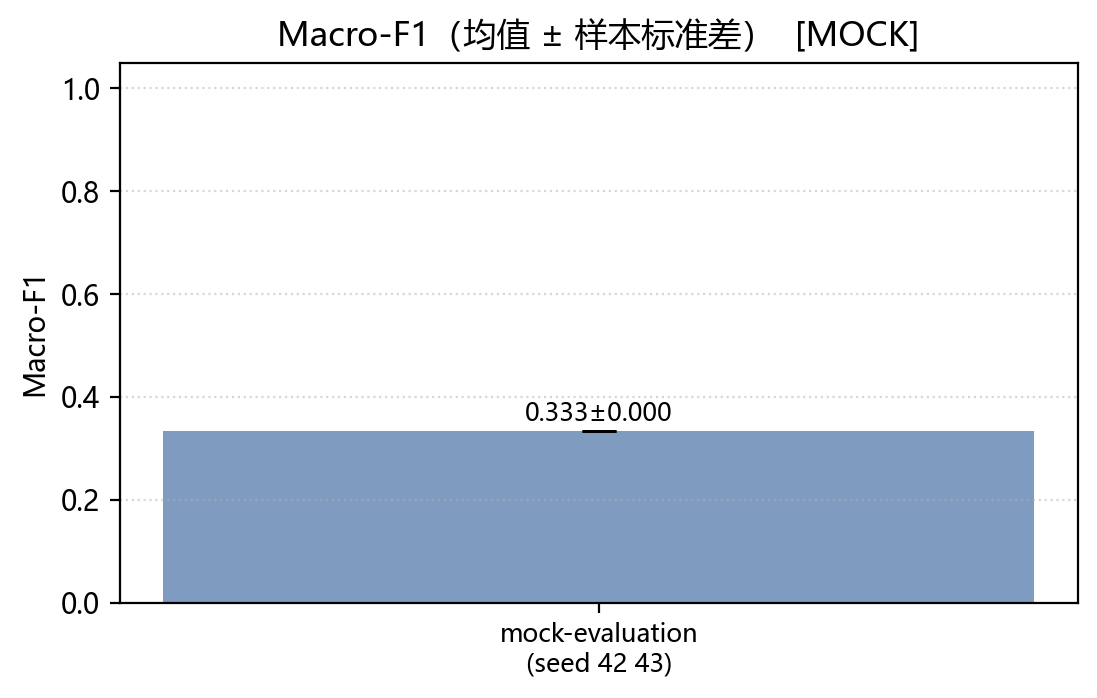
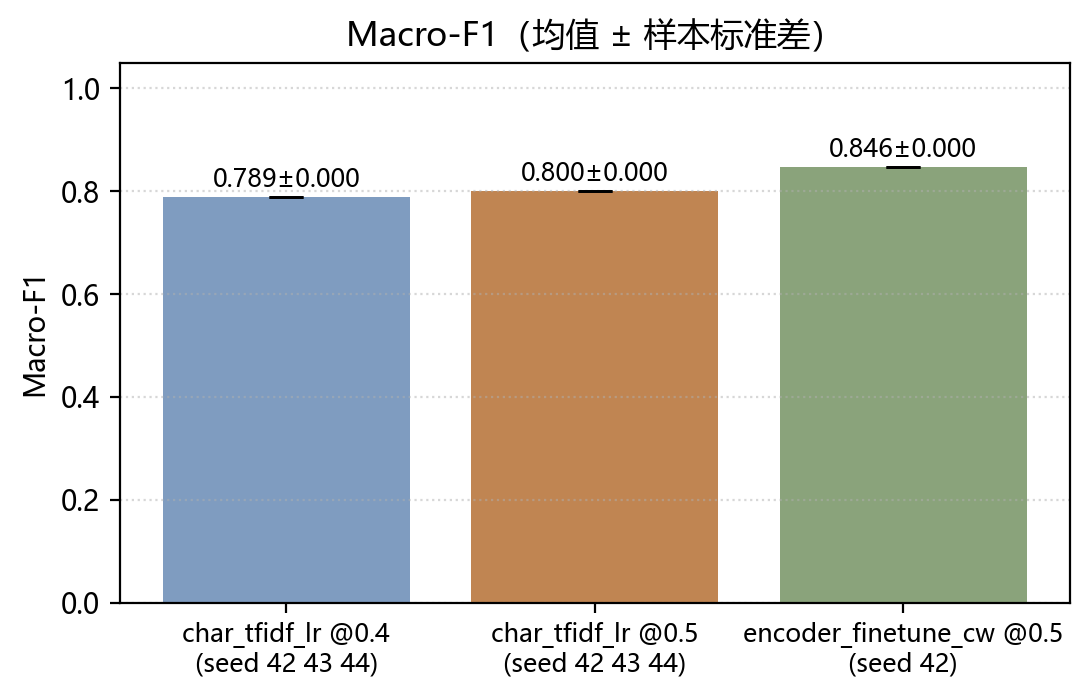
[P4] 生成统一评测主表与复现记录，补齐 P6 配置与文档
- P4：从各 run 的 metrics.json 生成 reports/results 主表（官方测试集 7 个 run：P2 六个 + P3 I2），
  清洗训练集对比单独放 reports/results/clean-train；environment/reproduction 记录已入库，
  本机绝对路径替换为仓库相对路径
- P4：P3 的 runs/improved-i2-s42-test 由 evaluate 在重建后的官方测试集上真实重算
  （n=1047，macro-F1 0.8461），metrics.json 入库
- P4：图表改用真实 aggregate.csv 生成，柱标签带阈值，避免两个 char_tfidf_lr 混淆
- P6：configs/demo/default.json 的 model_dir 改为 artifacts/p2/corgi-official-v1/selected-s42
  与 artifacts/improved-i2-s42，与 P2/P3 的实际产物路径一致
- 文档：README、P4.md、P6.md、reports/results/README、src/demo/README 同步当前状态

diff --git a/src/evaluation/plot_results.py b/src/evaluation/plot_results.py
@@ -31,7 +31,7 @@ def main() -> int:
     if not rows:
         raise SystemExit("aggregate.csv 为空")
 
-    labels = [f"{r['method']}\n(seed {r['seeds']})" for r in rows]
+    labels = [f"{r['method']} @{r['threshold']}\n(seed {r['seeds']})" for r in rows]
     means = [float(r["macro_f1_mean"]) for r in rows]
     stds = [float(r["macro_f1_std"]) if r["macro_f1_std"] not in ("", "None", "null") else 0.0
             for r in rows]

diff --git a/README.md b/README.md
@@ -4,9 +4,7 @@
 
 仓库现为公开仓库；组员Ready PR通过检查后自动合并。Draft或`manual-merge`标签可暂停，成员也可从自己的Fork提交，见[小组协作说明](docs/WORKFLOW.md)。
 
-**P1已完成真实数据处理与审计**，负责人`yuge2018`；其他成员可按[P1接入说明](src/data/README.md)独立生成冻结数据。
-
-**P2已完成字符TF-IDF＋LR基线、B0–B3消融、dev配置与阈值选择**，负责人`cengjingdejiyi`；命令与结果证据见[P2模块说明](src/baseline/README.md)。其余模块仍从示例骨架开发。
+六个模块均已合入 `main`，各自有真实产物与报告：P1 数据转换与审计、P2 字符 TF-IDF＋LR 基线、P3 预训练模型微调、P4 统一评测与复现、P5 多性别对象挑战集与分组分析、P6 Streamlit 演示与报告组装。各模块的命令与证据见 `src/<模块>/README.md` 与 [`reports/sections/`](reports/sections/)，统一主表在 [`reports/results/`](reports/results/)。完成度与剩余待办见 [审计 issue #32](https://github.com/yuge2018/nlp-gender-bias-detection/issues/32)。
 
 **检测对象是文本中的性别偏见，包括针对男性、女性及其他性别身份的刻板印象、角色限制与歧视。出现性别词本身不等于有偏见。** 项目只做二分类：`0=无偏见`，`1=有偏见`。数据实际覆盖哪些对象，需要审计和人工分析，不能从任务名称推断。
 
@@ -14,7 +12,7 @@
 
 1. 阅读 [总计划与六人分工](PLAN.md)，认领 P1–P6 中的一项。
 2. 阅读 [接口契约](docs/INTERFACES.md) 和对应的 [个人任务书](docs/roles/)。
-3. Python 3.11 或 3.12 环境中，在仓库根目录运行：
+3. Python 3.11 至 3.13 任一版本（132 项测试已在 3.13.18 通过），在仓库根目录运行：
 
 ```sh
 python -m unittest discover -s tests -v
@@ -26,7 +24,7 @@ python -m src.fairness --mock --output-dir runs/p5-smoke
 python -m src.demo --mock --output-dir runs/p6-smoke
 ```
 
-上述mock入口只使用 Python 标准库，无需 GPU、下载模型或等待组员。输出均标为 `is_mock=true`，用于理解接口，**不是训练结果或模型性能**。P1的真实数据入口另见接入说明；真实训练、评测和页面由各负责人继续完成。
+上述mock入口只使用 Python 标准库，无需 GPU、下载模型或等待组员。输出均标为 `is_mock=true`，用于理解接口，**不是训练结果或模型性能**。真实产物已入库：P2 的 12 个 test run 与 P3 的 I2 run 已由 P4 统一评测，主表见 `reports/results/`；演示页用 `streamlit run src/demo/app.py` 启动（依赖见 `requirements/p6.txt`）。
 
 ## 六个互不抢文件的工作区
 

diff --git a/reports/results/README.md b/reports/results/README.md
@@ -1,19 +1,37 @@
 # 正式结果目录
 
-真实 run 先逐个评测（把 `metrics.json` 写回 run 目录），再统一比较：
+由 P4 的 `compare` 读取各 run 的 `metrics.json` 生成，不重算模型、不调阈值。
+
+## 当前内容
+
+- `comparison.csv`、`aggregate.csv`、`comparison.md`：官方测试集（`corgi-official-v1`）主表，共 7 个真实 run
+  - P2：`selected-s{42,43,44}-test`（阈值 0.5）与 `selected-s{42,43,44}-test-tuned`（阈值 0.4）
+  - P3：`improved-i2-s42-test`（阈值 0.5）
+- `environment.json`、`reproduction.json`：环境信息与每个 run 的预测/metrics hash
+- `clean-train/`：清洗训练集（`corgi-clean-train-v1`）的 6 个 run，敏感性对比单独存放，不与主表混判
+
+## 重新生成
 
 ```sh
+# 1) 重建冻结数据（首次需联网；缓存校验不过即拒绝读取）
+python -m src.data prepare --raw-dir data/raw --output-dir data/processed --offline
+
+# 2) 补齐缺 metrics 的 run（当前仅 P3 的 I2 需要）
 python -m src.evaluation evaluate \
   --data-dir data/processed/corgi-official-v1 --split test \
-  --run-dir runs/baseline-s42-test
+  --run-dir runs/improved-i2-s42-test
 
-python -m src.evaluation compare \
-  --run-dirs runs/baseline-s42-test runs/baseline-s43-test runs/baseline-s44-test \
-             runs/improved-s42-test runs/improved-s43-test runs/improved-s44-test \
-  --output-dir reports/results
+# 3) 生成主表与图
+python -m src.evaluation compare --run-dirs \
+  runs/p2/corgi-official-v1/selected-s{42,43,44}-test \
+  runs/p2/corgi-official-v1/selected-s{42,43,44}-test-tuned \
+  runs/improved-i2-s42-test --output-dir reports/results
+python -m src.evaluation compare --run-dirs \
+  runs/p2/corgi-clean-train-v1/selected-s{42,43,44}-test \
+  runs/p2/corgi-clean-train-v1/selected-s{42,43,44}-test-tuned \
+  --output-dir reports/results/clean-train
+python -m src.evaluation plot_results --aggregate reports/results/aggregate.csv
 ```
 
-产出：`comparison.csv`、`aggregate.csv`、`comparison.md`、`environment.json`、
-`reproduction.json`；逐 run 的 `metrics.json` 留在各自 run 目录中。
-
-本目录当前为空，避免把 mock 结果误当作正式结果。mock 冒烟输出在 `runs/p4-smoke/`。
+`compare` 拒绝不同数据 hash、不同 split 或 mock/真实混比，所以清洗版必须写到单独目录。
+逐 run 的 `metrics.json` 留在各自 run 目录中。

diff --git a/reports/sections/P6.md b/reports/sections/P6.md
@@ -92,9 +92,8 @@ scikit-learn 1.9.1）。命令均在仓库根目录执行。
 
 1. `artifacts/*` 下只有 `model_metadata.json`，权重未提交，因此本机“单句检测”接不了真实模型；
    这正是新增“真实结果只读”页签的原因。
-2. `runs/improved-i2-s42-test` 只有 `predictions.jsonl` 与 `run_metadata.json`，缺 `metrics.json`，
-   需要 P4 评测补齐；页面将其显示为“待评测”。
-3. `reports/results/comparison.csv` 尚未入库，主表由 P4 的产物决定，P6 不代算。
+2. `runs/improved-i2-s42-test` 的 `metrics.json` 已由 P4 补齐（n=1047，macro-F1 0.8461），页面不再把它列为“待评测”。
+3. `reports/results/` 已由 P4 生成 `comparison.csv`、`aggregate.csv`、`comparison.md` 与复现记录；官方测试集主表含 7 个真实 run（P2 六个 ＋ P3 I2），清洗训练集对比在 `reports/results/clean-train/`。
 
 ## 实验结果与图表
 
@@ -119,8 +118,7 @@ python -m src.demo.figures --run-dir runs/p2/corgi-official-v1/selected-s42-test
    “真实结果（只读）”页签从 `runs/**` 展示，而不是现场推理。
 3. 页面分数未做概率校准，阈值可临时调整；任何“准确率/公平性”结论只能来自 P4/P5 的评测文件。
 4. 四条演示例句是自编接口示例，不能代表数据分布与性别对象覆盖；覆盖问题由 P5 的挑战集回答。
-5. `runs/improved-i2-s42-test` 缺 `metrics.json`、`reports/results/comparison.csv` 未入库，
-   主表尚不完整；这两项属 P4 产物，P6 不代算、只如实标注。
+5. 主表现已由 P4 生成并入库；P3 其余五个改进变体的权重与 run 目录不入库，主表只有 I2 一个改进点，P6 如实标注、不代算。
 6. 最终报告的排版与 PPT 需等老师模板，P6 只负责内容组装与统一叙事。
 
 **答辩三问**：

diff --git a/src/demo/README.md b/src/demo/README.md
@@ -65,12 +65,12 @@ python -m src.demo --mock --output-dir runs/p6-smoke
 
 ```json
 {"key": "baseline", "display_name": "...", "adapter_module": "src.baseline.adapter",
- "model_dir": "artifacts/baseline-s42", "is_deep": false}
+ "model_dir": "artifacts/p2/corgi-official-v1/selected-s42", "is_deep": false}
 ```
 
 - `adapter_module` 为 `null` 表示开发替身（`MockPredictor`，固定 0.5）。
 - 接真实模型时只需改 `model_dir` 指向该角色 train CLI 生成的目录，页面无需改动。
-- 现在 `default_model` 是 `mock`；D7 真实模型就绪后改成 `baseline`。
+- 现在 `default_model` 仍是 `mock`：仓库内的 P2/P3 目录只有 `model_metadata.json`，`registry` 会把它们标为 `weights_missing`；本机放回权重后才可把 `default_model` 改成 `baseline`。
 - 模型不可用时页面给的是“目录不存在 / 仅剩元信息（权重未提交） / 适配器导入失败 / 缺依赖”的具体原因与建议，不会崩。
 
 ## 图表的来源与限制
@@ -93,7 +93,7 @@ python -m src.demo.figures --run-dir runs/p4-smoke --output-dir reports/figures/
 
 ## D7 对接清单
 
-1. P2/P3 提供 `artifacts/<model>-s42/`，目录内含各自 `model_metadata.json`。
+1. P2/P3 提供 `artifacts/p2/<dataset>/selected-s42/` 与 `artifacts/improved-i2-s42/`，目录内含各自 `model_metadata.json` 与权重。
 2. 核对 `load_predictor(model_dir, *, mock=False)` 返回对象有 `predict_proba(list[str]) -> list[float]`。
 3. 把 `configs/demo/default.json` 的 `model_dir` 指向真实目录，`default_model` 改为 `baseline`。
 4. 页面分别用男性/女性偏见、中性描述、引用反驳各一条验证，再确认断网可跑。

diff --git a/reports/results/comparison.md b/reports/results/comparison.md
@@ -1,0 +1,23 @@
+# P4 评测结果
+
+## 单次运行
+
+| method | threshold | seed | n | accuracy | macro-F1 | P(1) | R(1) | F1(1) | F1(0) |
+|---|---:|---:|---:|---:|---:|---:|---:|---:|---:|
+| char_tfidf_lr | 0.4000 | 42 | 1047 | 0.7899 | 0.7891 | 0.7547 | 0.8560 | 0.8022 | 0.7760 |
+| char_tfidf_lr | 0.4000 | 43 | 1047 | 0.7899 | 0.7891 | 0.7547 | 0.8560 | 0.8022 | 0.7760 |
+| char_tfidf_lr | 0.4000 | 44 | 1047 | 0.7899 | 0.7891 | 0.7547 | 0.8560 | 0.8022 | 0.7760 |
+| char_tfidf_lr | 0.5000 | 42 | 1047 | 0.8004 | 0.8001 | 0.8223 | 0.7639 | 0.7920 | 0.8081 |
+| char_tfidf_lr | 0.5000 | 43 | 1047 | 0.8004 | 0.8001 | 0.8223 | 0.7639 | 0.7920 | 0.8081 |
+| char_tfidf_lr | 0.5000 | 44 | 1047 | 0.8004 | 0.8001 | 0.8223 | 0.7639 | 0.7920 | 0.8081 |
+| encoder_finetune_cw | 0.5000 | 42 | 1047 | 0.8481 | 0.8461 | 0.9458 | 0.7370 | 0.8285 | 0.8638 |
+
+## 多种子汇总（均值 ± 样本标准差，按阈值分组）
+
+| method | threshold | runs | macro-F1 | accuracy | P(1) | R(1) |
+|---|---:|---:|---|---|---|---|
+| char_tfidf_lr | 0.4000 | 3 | 0.7891 ± 0.0000 | 0.7899 ± 0.0000 | 0.7547 ± 0.0000 | 0.8560 ± 0.0000 |
+| char_tfidf_lr | 0.5000 | 3 | 0.8001 ± 0.0000 | 0.8004 ± 0.0000 | 0.8223 ± 0.0000 | 0.7639 ± 0.0000 |
+| encoder_finetune_cw | 0.5000 | 1 | 0.8461 | 0.8481 | 0.9458 | 0.7370 |
+
+混淆矩阵行是真值 0/1，列是预测 0/1，即 [[TN, FP], [FN, TP]]。

diff --git a/reports/results/clean-train/comparison.md b/reports/results/clean-train/comparison.md
@@ -1,0 +1,21 @@
+# P4 评测结果
+
+## 单次运行
+
+| method | threshold | seed | n | accuracy | macro-F1 | P(1) | R(1) | F1(1) | F1(0) |
+|---|---:|---:|---:|---:|---:|---:|---:|---:|---:|
+| char_tfidf_lr | 0.4000 | 42 | 1047 | 0.7899 | 0.7892 | 0.7564 | 0.8522 | 0.8014 | 0.7769 |
+| char_tfidf_lr | 0.4000 | 43 | 1047 | 0.7899 | 0.7892 | 0.7564 | 0.8522 | 0.8014 | 0.7769 |
+| char_tfidf_lr | 0.4000 | 44 | 1047 | 0.7899 | 0.7892 | 0.7564 | 0.8522 | 0.8014 | 0.7769 |
+| char_tfidf_lr | 0.5000 | 42 | 1047 | 0.7975 | 0.7972 | 0.8186 | 0.7620 | 0.7893 | 0.8051 |
+| char_tfidf_lr | 0.5000 | 43 | 1047 | 0.7975 | 0.7972 | 0.8186 | 0.7620 | 0.7893 | 0.8051 |
+| char_tfidf_lr | 0.5000 | 44 | 1047 | 0.7975 | 0.7972 | 0.8186 | 0.7620 | 0.7893 | 0.8051 |
+
+## 多种子汇总（均值 ± 样本标准差，按阈值分组）
+
+| method | threshold | runs | macro-F1 | accuracy | P(1) | R(1) |
+|---|---:|---:|---|---|---|---|
+| char_tfidf_lr | 0.4000 | 3 | 0.7892 ± 0.0000 | 0.7899 ± 0.0000 | 0.7564 ± 0.0000 | 0.8522 ± 0.0000 |
+| char_tfidf_lr | 0.5000 | 3 | 0.7972 ± 0.0000 | 0.7975 ± 0.0000 | 0.8186 ± 0.0000 | 0.7620 ± 0.0000 |
+
+混淆矩阵行是真值 0/1，列是预测 0/1，即 [[TN, FP], [FN, TP]]。
